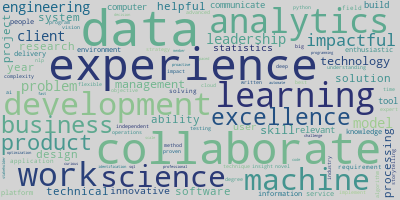
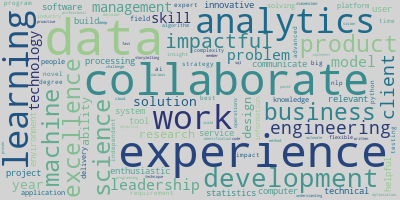
created initial bigram viz by count capability in subtopic viz

diff --git a/nlp_main.py b/nlp_main.py
@@ -3915,6 +3915,7 @@ def visualize_subtopic(df, df_jobs_raw, terms_for_nlp, subtopic_list, unique_tit
     None. Directly outputs visualizations.
 
     ''' 
+    subtopic_list = subtopic_python.copy()  ############ RENOVE AFTER GOES FINAL
     # generate monograms from the full terms_for_nlp list
     n_gram_count = 1
     n_gram_range_start, n_gram_range_stop  = 0, int((len(terms_for_nlp) / 2))
@@ -3936,14 +3937,16 @@ def visualize_subtopic(df, df_jobs_raw, terms_for_nlp, subtopic_list, unique_tit
     bigrams = nlp_count_n_grams(terms_for_nlp, n_gram_count, n_gram_range_start, n_gram_range_stop)
     
     # # subset the bigrams for which at least one term appears in the subtopic list
-####### !!!!!!!! Might need to change the target bigram in the subtopic_python list
-    bigram_match_to_cred_list = [x for x in bigrams.grams if any(b in x for b in subtopic_list)]
-    print(f"Bigrams matched in subtopic_list: {bigram_match_to_cred_list[:10]}")
-    # mask_bigram = bigrams.grams.isin(bigram_match_to_cred_list)
-    # bigrams_df_sns = bigrams[mask_bigram]
+    bigram_match_to_subtopic_list = [x for x in bigrams.grams if any(b in x for b in subtopic_list)]
+    print(f'Bigrams matched in subtopic_list: {bigram_match_to_subtopic_list[:10]}\n')
+    mask_bigram = bigrams.grams.isin(bigram_match_to_subtopic_list)
+    bigrams_df_sns = bigrams[mask_bigram]   
+    print(f'Top 5 elements of bigrams_df_sns: {bigrams_df_sns.head()}\n')
 
-    # # add the monograms and bigrams
-    # ngram_combined_sns = pd.concat([monograms_df_sns, bigrams_df_sns], axis=0, ignore_index=True)
+################ BOOKMARK HERE: this did not concatenate on the first attempt; IT's AN INDEXING PROBLEM; need to sort by count and reset the index
+    # add the monograms and bigrams
+    ngram_combined_sns = pd.concat([monograms_df_sns, bigrams_df_sns], axis=0, ignore_index=True)
+    print(f'Top 30 elements of ngram_combined_sns: {ngram_combined_sns.head(30)}')
 
 
     
@@ -3956,8 +3959,8 @@ def visualize_subtopic(df, df_jobs_raw, terms_for_nlp, subtopic_list, unique_tit
         
     ax = sns.barplot(x='count',
                      y='grams',
-                     data=monograms_df_sns,
-                     order=monograms_df_sns.sort_values('count', ascending = False).grams[:25],
+                     data=ngram_combined_sns,
+                     order=ngram_combined_sns.sort_values('count', ascending = False).grams[:25],
                      orient='h',
                      palette='mako_r') # crest, mako, 'mako_d, Blues_d, mako_r, ocean, gist_gray, gist_gray_r, icefire
     
@@ -3978,6 +3981,9 @@ def visualize_subtopic(df, df_jobs_raw, terms_for_nlp, subtopic_list, unique_tit
                 ha='left',
                 in_layout=True,
                 wrap=True) 
+
+visualize_subtopic(df, df_jobs_raw, terms_for_nlp, subtopic_python, unique_titles_viz, viz_title='Python Subtopic')
+
      
     # create a horizontal barplot visualizing data science skills in the subtopic list - by percentage
     df_jobs_mono = df_jobs_raw.copy()
